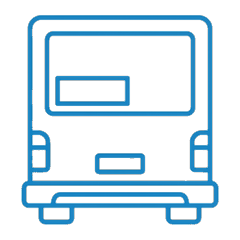
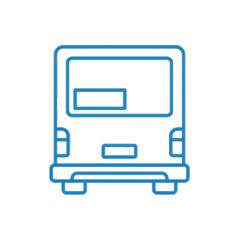
Прайс: «Бортовая» обратно вид сбоку, «Наклейки» (зад) уменьшил; PDF обновлён

Changed region(s): [[0.0875, 0.0583, 0.9333, 0.9625]]

diff --git a/pricing.html b/pricing.html
@@ -8,7 +8,7 @@
   <link rel="preconnect" href="https://fonts.googleapis.com">
   <link rel="preconnect" href="https://fonts.gstatic.com" crossorigin>
   <link href="https://fonts.googleapis.com/css2?family=Inter:wght@400;500;600;700&display=swap" rel="stylesheet">
-  <link rel="stylesheet" href="styles.css?v=125">
+  <link rel="stylesheet" href="styles.css?v=126">
 </head>
 <body>
 
@@ -55,7 +55,7 @@
       <div class="price-card" data-reveal>
         <div class="price-card__head">
           <span class="price-card__title">
-            <span class="price-card__icon"><img src="assets/pr-bus.png?5" alt="" width="28" height="28"></span>
+            <span class="price-card__icon"><img src="assets/pr-bus.png?6" alt="" width="28" height="28"></span>
             Широкоформатная бортовая реклама
           </span>
         </div>
@@ -80,7 +80,7 @@
       <div class="price-card" data-reveal>
         <div class="price-card__head">
           <span class="price-card__title">
-            <span class="price-card__icon"><img src="assets/pr-sticker.png?5" alt="" width="28" height="28"></span>
+            <span class="price-card__icon"><img src="assets/pr-sticker.png?6" alt="" width="28" height="28"></span>
             Рекламная наклейка на транспорте
           </span>
         </div>
@@ -199,6 +199,6 @@
   </div>
 </footer>
 
-<script src="script.js?v=125"></script>
+<script src="script.js?v=126"></script>
 </body>
 </html>

diff --git a/about.html b/about.html
@@ -8,7 +8,7 @@
   <link rel="preconnect" href="https://fonts.googleapis.com">
   <link rel="preconnect" href="https://fonts.gstatic.com" crossorigin>
   <link href="https://fonts.googleapis.com/css2?family=Inter:wght@400;500;600;700&display=swap" rel="stylesheet">
-  <link rel="stylesheet" href="styles.css?v=125">
+  <link rel="stylesheet" href="styles.css?v=126">
 </head>
 <body>
 
@@ -215,6 +215,6 @@
   </div>
 </footer>
 
-<script src="script.js?v=125"></script>
+<script src="script.js?v=126"></script>
 </body>
 </html>

diff --git a/cases.html b/cases.html
@@ -8,7 +8,7 @@
   <link rel="preconnect" href="https://fonts.googleapis.com">
   <link rel="preconnect" href="https://fonts.gstatic.com" crossorigin>
   <link href="https://fonts.googleapis.com/css2?family=Inter:wght@400;500;600;700&display=swap" rel="stylesheet">
-  <link rel="stylesheet" href="styles.css?v=125">
+  <link rel="stylesheet" href="styles.css?v=126">
 </head>
 <body>
 
@@ -179,6 +179,6 @@
   </div>
 </footer>
 
-<script src="script.js?v=125"></script>
+<script src="script.js?v=126"></script>
 </body>
 </html>

diff --git a/consent.html b/consent.html
@@ -9,7 +9,7 @@
   <link rel="preconnect" href="https://fonts.googleapis.com">
   <link rel="preconnect" href="https://fonts.gstatic.com" crossorigin>
   <link href="https://fonts.googleapis.com/css2?family=Inter:wght@400;500;600;700&display=swap" rel="stylesheet">
-  <link rel="stylesheet" href="styles.css?v=125">
+  <link rel="stylesheet" href="styles.css?v=126">
 </head>
 <body>
 
@@ -116,6 +116,6 @@
   </div>
 </footer>
 
-<script src="script.js?v=125"></script>
+<script src="script.js?v=126"></script>
 </body>
 </html>

diff --git a/contacts.html b/contacts.html
@@ -8,7 +8,7 @@
   <link rel="preconnect" href="https://fonts.googleapis.com">
   <link rel="preconnect" href="https://fonts.gstatic.com" crossorigin>
   <link href="https://fonts.googleapis.com/css2?family=Inter:wght@400;500;600;700&display=swap" rel="stylesheet">
-  <link rel="stylesheet" href="styles.css?v=125">
+  <link rel="stylesheet" href="styles.css?v=126">
 </head>
 <body>
 
@@ -131,6 +131,6 @@
   </div>
 </footer>
 
-<script src="script.js?v=125"></script>
+<script src="script.js?v=126"></script>
 </body>
 </html>

diff --git a/index.html b/index.html
@@ -11,7 +11,7 @@
   <link rel="preconnect" href="https://fonts.googleapis.com">
   <link rel="preconnect" href="https://fonts.gstatic.com" crossorigin>
   <link href="https://fonts.googleapis.com/css2?family=Inter:wght@400;500;600;700&display=swap" rel="stylesheet">
-  <link rel="stylesheet" href="styles.css?v=125">
+  <link rel="stylesheet" href="styles.css?v=126">
 </head>
 <body>
 
@@ -535,6 +535,6 @@
   </div>
 </footer>
 
-<script src="script.js?v=125"></script>
+<script src="script.js?v=126"></script>
 </body>
 </html>

diff --git a/privacy.html b/privacy.html
@@ -9,7 +9,7 @@
   <link rel="preconnect" href="https://fonts.googleapis.com">
   <link rel="preconnect" href="https://fonts.gstatic.com" crossorigin>
   <link href="https://fonts.googleapis.com/css2?family=Inter:wght@400;500;600;700&display=swap" rel="stylesheet">
-  <link rel="stylesheet" href="styles.css?v=125">
+  <link rel="stylesheet" href="styles.css?v=126">
 </head>
 <body>
 
@@ -134,6 +134,6 @@
   </div>
 </footer>
 
-<script src="script.js?v=125"></script>
+<script src="script.js?v=126"></script>
 </body>
 </html>

diff --git a/requisites.html b/requisites.html
@@ -9,7 +9,7 @@
   <link rel="preconnect" href="https://fonts.googleapis.com">
   <link rel="preconnect" href="https://fonts.gstatic.com" crossorigin>
   <link href="https://fonts.googleapis.com/css2?family=Inter:wght@400;500;600;700&display=swap" rel="stylesheet">
-  <link rel="stylesheet" href="styles.css?v=125">
+  <link rel="stylesheet" href="styles.css?v=126">
 </head>
 <body>
 
@@ -111,6 +111,6 @@
   </div>
 </footer>
 
-<script src="script.js?v=125"></script>
+<script src="script.js?v=126"></script>
 </body>
 </html>

diff --git a/service-bortovaya.html b/service-bortovaya.html
@@ -8,7 +8,7 @@
   <link rel="preconnect" href="https://fonts.googleapis.com">
   <link rel="preconnect" href="https://fonts.gstatic.com" crossorigin>
   <link href="https://fonts.googleapis.com/css2?family=Inter:wght@400;500;600;700&display=swap" rel="stylesheet">
-  <link rel="stylesheet" href="styles.css?v=125">
+  <link rel="stylesheet" href="styles.css?v=126">
 </head>
 <body>
 
@@ -155,6 +155,6 @@
   </div>
 </footer>
 
-<script src="script.js?v=125"></script>
+<script src="script.js?v=126"></script>
 </body>
 </html>

diff --git a/service-listovki.html b/service-listovki.html
@@ -8,7 +8,7 @@
   <link rel="preconnect" href="https://fonts.googleapis.com">
   <link rel="preconnect" href="https://fonts.gstatic.com" crossorigin>
   <link href="https://fonts.googleapis.com/css2?family=Inter:wght@400;500;600;700&display=swap" rel="stylesheet">
-  <link rel="stylesheet" href="styles.css?v=125">
+  <link rel="stylesheet" href="styles.css?v=126">
 </head>
 <body>
 
@@ -147,6 +147,6 @@
   </div>
 </footer>
 
-<script src="script.js?v=125"></script>
+<script src="script.js?v=126"></script>
 </body>
 </html>

diff --git a/service-nakleyki.html b/service-nakleyki.html
@@ -8,7 +8,7 @@
   <link rel="preconnect" href="https://fonts.googleapis.com">
   <link rel="preconnect" href="https://fonts.gstatic.com" crossorigin>
   <link href="https://fonts.googleapis.com/css2?family=Inter:wght@400;500;600;700&display=swap" rel="stylesheet">
-  <link rel="stylesheet" href="styles.css?v=125">
+  <link rel="stylesheet" href="styles.css?v=126">
 </head>
 <body>
 
@@ -152,6 +152,6 @@
   </div>
 </footer>
 
-<script src="script.js?v=125"></script>
+<script src="script.js?v=126"></script>
 </body>
 </html>

diff --git a/service-spinki.html b/service-spinki.html
@@ -8,7 +8,7 @@
   <link rel="preconnect" href="https://fonts.googleapis.com">
   <link rel="preconnect" href="https://fonts.gstatic.com" crossorigin>
   <link href="https://fonts.googleapis.com/css2?family=Inter:wght@400;500;600;700&display=swap" rel="stylesheet">
-  <link rel="stylesheet" href="styles.css?v=125">
+  <link rel="stylesheet" href="styles.css?v=126">
 </head>
 <body>
 
@@ -147,6 +147,6 @@
   </div>
 </footer>
 
-<script src="script.js?v=125"></script>
+<script src="script.js?v=126"></script>
 </body>
 </html>